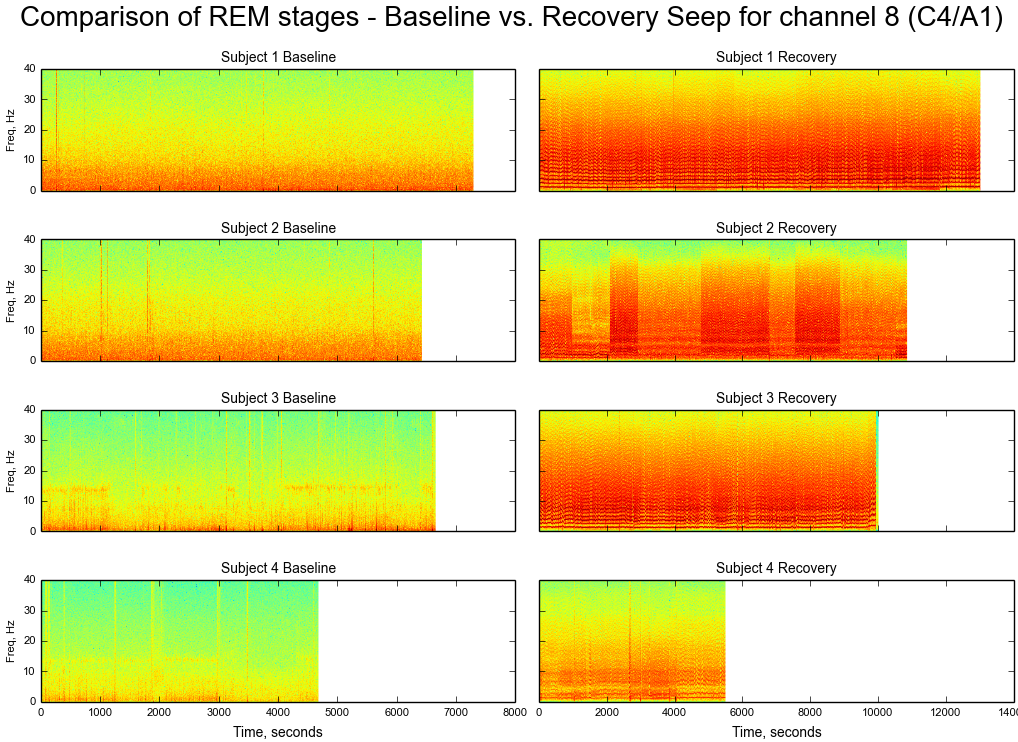
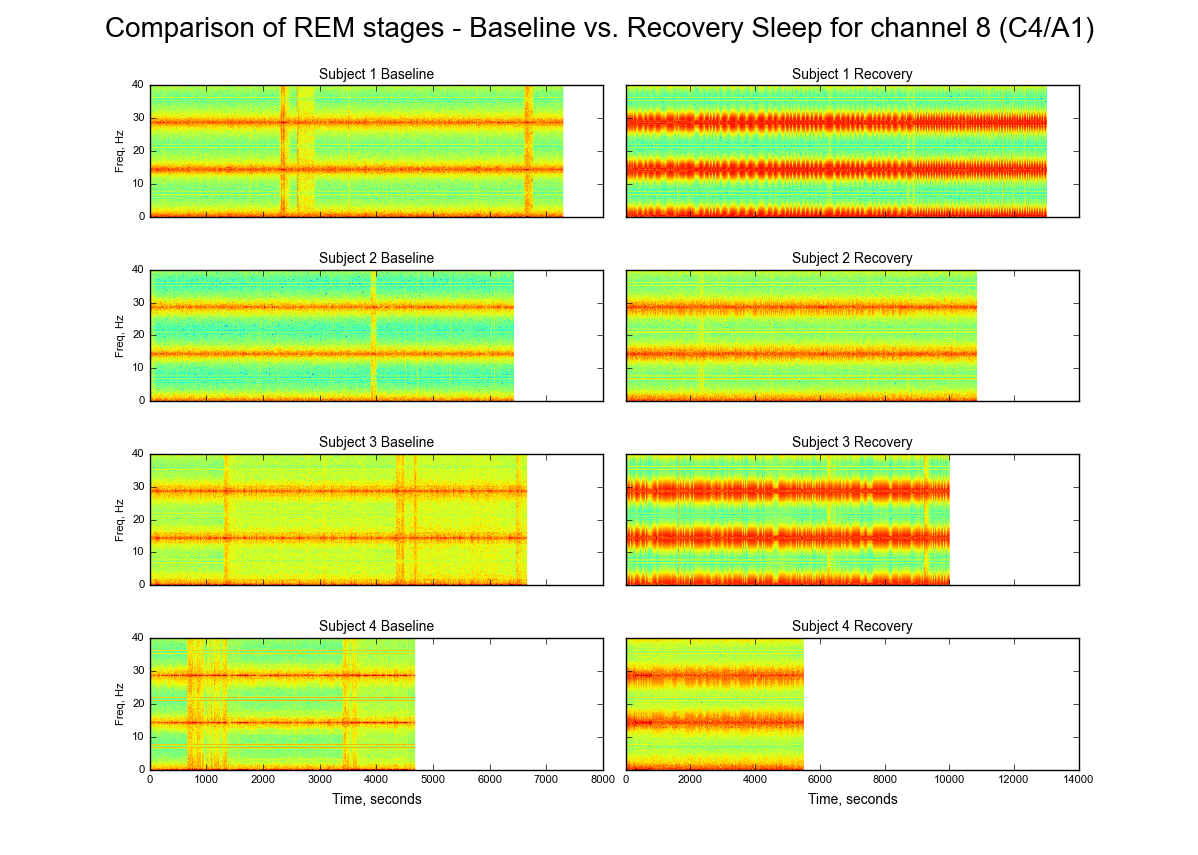
title update for Segey graph

diff --git a/feature_comparison.py b/feature_comparison.py
@@ -80,7 +80,7 @@ if __name__ == "__main__":
 
     plt.rc('font', family='Arial')
     fig, ax = plt.subplots(nrows=4, ncols=2, sharex='col', sharey='row')
-    fig.suptitle("Comparison of REM stages - Baseline vs. Recovery Seep for channel 8 (C4/A1)", fontsize=20)
+    fig.suptitle("Comparison of REM stages - Baseline vs. Recovery Sleep for channel 8 (C4/A1)", fontsize=20)
     plt.subplots_adjust(wspace = .05,hspace = 0.4 )
 
     j = 1    
